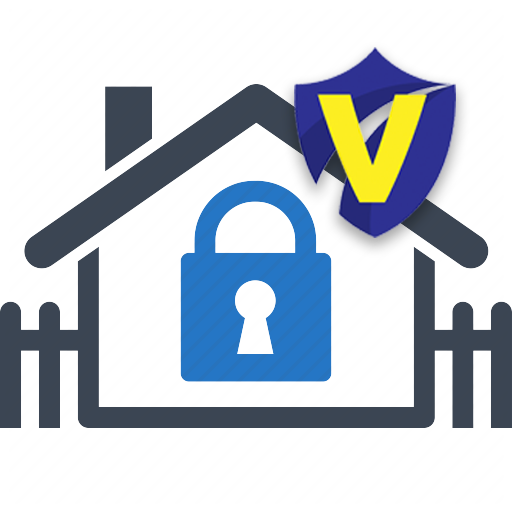
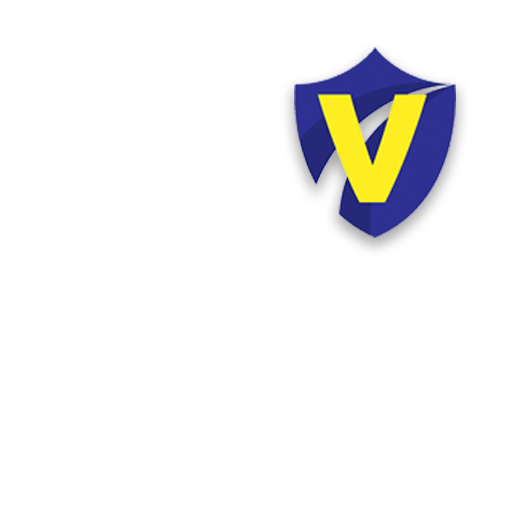
welcome screen updated

Changed region(s): [[0.0, 0.1562, 1.0, 0.8438], [0.3438, 0.3438, 0.6562, 0.75], [0.625, 0.2812, 0.6875, 0.375]]

diff --git a/src/pages/welcome/welcome.ts b/src/pages/welcome/welcome.ts
@@ -15,20 +15,20 @@ import { IonicPage, NavController, NavParams } from 'ionic-angular';
 export class WelcomePage {
   slides = [
     {
-      title: "Welcome to the Docs!",
+      title: "Welcome to the Visilinx!",
       description: "The <b>Ionic Component Documentation</b> showcases a number of useful components that are included out of the box with Ionic.",
       image: "../../assets/logo-ion.png",
     },
     {
-      title: "What is Ionic?",
-      description: "<b>Ionic Framework</b> is an open source SDK that enables developers to build high quality mobile apps with web technologies like HTML, CSS, and JavaScript.",
+      title: "Be a great host",
+      description: "<b>Hosts</b>  are automatically notified of visitor arrival via email, SMS and the Visilinx smart phone App.",
       image: "../../assets/slide2.png",
-    },
-    {
-      title: "What is Ionic Cloud?",
-      description: "The <b>Ionic Cloud</b> is a cloud platform for managing and scaling Ionic apps with integrated services like push notifications, native builds, user auth, and live updating.",
-      image: "../../assets/slide3.png",
     }
+    // {
+    //   title: "What is Ionic Cloud?",
+    //   description: "The <b>Ionic Cloud</b> is a cloud platform for managing and scaling Ionic apps with integrated services like push notifications, native builds, user auth, and live updating.",
+    //   image: "../../assets/slide3.png",
+    // }
   ];
 
   constructor(public navCtrl: NavController, public navParams: NavParams) {

diff --git a/src/pages/welcome/welcome.html b/src/pages/welcome/welcome.html
@@ -5,7 +5,7 @@
     <ion-slide *ngFor="let slide of slides">
       <ion-toolbar>
         <ion-buttons end>
-          <button ion-button color="primary">Skip</button>
+          <button ion-button color="primary" (click)="login()">Skip</button>
         </ion-buttons>
       </ion-toolbar>
       <img [src]="slide.image" class="slide-image"/>
@@ -16,8 +16,8 @@
       <ion-toolbar>
       </ion-toolbar>
       <img src="../../assets/slide3.png" class="slide-image"/>
-      <h2 class="slide-title">Ready to Play?</h2>
-      <button ion-button large icon-end round  color="secondary" (click)="login()">
+      <h2 class="slide-title">Getting Started</h2>
+      <button ion-button large icon-end round  outline color="secondary" (click)="login()">
         Login
         <ion-icon name="arrow-forward"></ion-icon>
       </button>

diff --git a/src/pages/welcome/welcome.scss b/src/pages/welcome/welcome.scss
@@ -1,12 +1,12 @@
 page-welcome {
 
   #bg{
-    background: #51a7e8;
+    background: #00416f;
     color: #fff;
   }
 
   .toolbar-background {
-    background: #51a7e8;
+    background: #00416f;
     border-color: transparent;
   }
 
